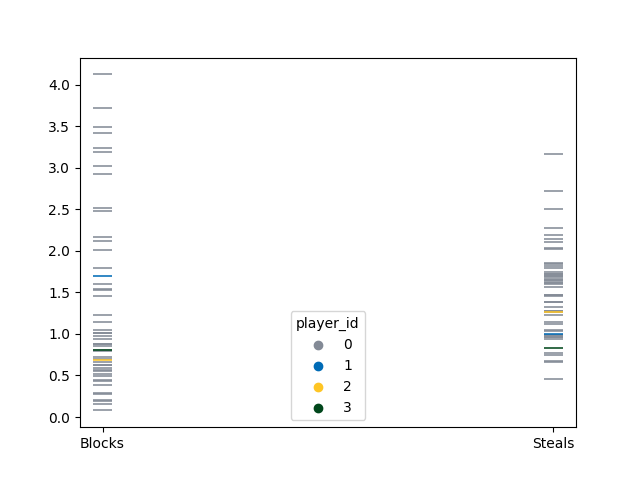
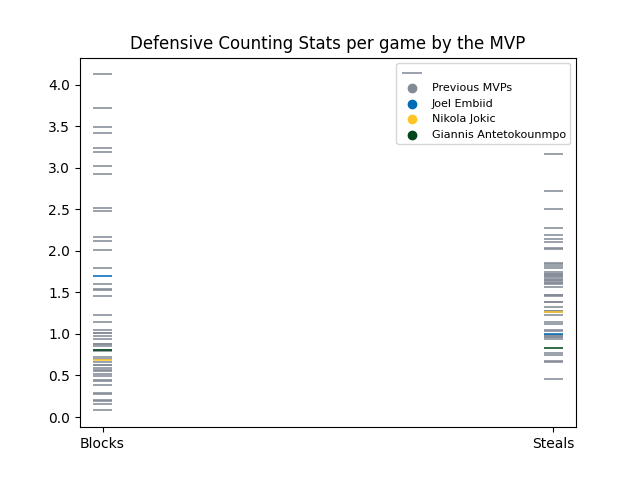
Done!

diff --git a/graph.py b/graph.py
@@ -1,3 +1,6 @@
+import warnings
+warnings.simplefilter(action='ignore', category=FutureWarning)
+
 import pandas as pd
 import seaborn as sns
 import matplotlib.pyplot as plt
@@ -61,11 +64,11 @@ def gen_by_year_dataset(data, tag):
     r_df = pd.DataFrame(dtm, columns=['idx', 'season', tag])
     return r_df
 
-tag_to_label = {"PTS": "Points", "REB" : "Rebounds", "AST" : "Assists", "STL" : "Steals", "BLK" : "Blocks", "FG_PCT": "Field Goal Percentage", "FG3_PCT" : "3 Point Percentage", "TS%" : "True Shooting Percentage", 'OWS' : 'OWS', 'TOV' : 'Turnovers', 'PF':'Personal Fouls', 'PER':'PER','OWS':'OWS',
+tag_to_label = {"PTS": "Points", "REB" : "Rebounds", "AST" : "Assists", "STL" : "Steals", "BLK" : "Blocks", "FG_PCT": "FG %", "FG3_PCT" : "3PT %", "FT_PCT":"FT %", "TS%" : "True Shooting %", 'OWS' : 'OWS', 'TOV' : 'Turnovers', 'PF':'Personal Fouls', 'PER':'PER','OWS':'OWS',
                 'DWS':'DWS','WS':'WS','OBPM':'OBPM','DBPM':'DBPM','BPM':'BPM','VORP':'VORP'}
 
 def beep(tag):
-    ret_map = {'REB':'TRB', 'FG_PCT':'FG%', 'FG3_PCT':'3P%'}
+    ret_map = {'REB':'TRB'}
     if(tag in ret_map.keys()):
         return ret_map[tag]
     return tag
@@ -109,6 +112,8 @@ def gen_scatter_plot_by_year(tag, per_game):
         sp.set_ylabel("{} per game".format(tag_to_label[tag]))
     else:
         sp.set_ylabel("{}".format(tag_to_label[tag]))
+    
+    plt.legend(fontsize="8", labels=['', 'Previous MVPs', 'Joel Embiid', "Nikola Jokic", "Giannis Antetokounmpo"])
     plt.savefig('data/graphs/by_year/{}.png'.format(tag))
     plt.clf()
 
@@ -136,10 +141,17 @@ def gen_scatter_plot_by_cat(cats, per_game, label):
     r_df = add_player_info_to_cat(r_df, giannis, cats, per_game)
 
     sp = sns.scatterplot(data=r_df, x='idx', y='data', hue='player_id', palette=palette, marker='_', s=200)
+
+    if(per_game):
+        sp.set_title("{} per game by the MVP".format(label))
+    else:
+        sp.set_title("{} by the MVP".format(label))
+
     sp.set_xticks(list(range(len(cats))))
     sp.set_xticklabels([tag_to_label[c] for c in cats])
     sp.set_xlabel("")
     sp.set_ylabel("")
+    plt.legend(fontsize="8", labels=['', 'Previous MVPs', 'Joel Embiid', "Nikola Jokic", "Giannis Antetokounmpo"])
     plt.savefig('data/graphs/by_cat/{}.png'.format(label))
     plt.clf()
 
@@ -150,9 +162,9 @@ def add_player_info_to_cat(data, player, rows, per_game):
     for row in rows:
         r = pd.DataFrame()
         if(per_game):
-            r['data'] = player[row]/player['G']
+            r['data'] = player[beep(row)]/player['G']
         else:
-            r['data'] = player[row]
+            r['data'] = player[beep(row)]
         r['idx'] = i
         r['player_id'] = max_player_id
         r_df = pd.concat([r_df, r], axis=0)
@@ -164,6 +176,7 @@ BASIC_OFFENSIVE_COUNTING_STATS = (['PTS', 'REB', 'AST'], 'Offensive Counting Sta
 BASIC_DEFENSIVE_COUNTING_STATS = (['BLK', 'STL'], 'Defensive Counting Stats')
 BASIC_BAD_STATS = (['TOV', 'PF'], 'Negative Counting Stats')
 ADVANCED_STATS = (['OWS','DWS','WS','OBPM','DBPM','BPM','VORP', 'PER'], 'Advanced Stats')
+EFFICENCY_METRICS = (['FG_PCT', 'FG3_PCT', 'FT_PCT', 'TS%'], 'Efficiency Metrics')
 
 for stat in BASIC_OFFENSIVE_COUNTING_STATS[0]:
     gen_scatter_plot_by_year(stat, True)
@@ -174,7 +187,11 @@ for stat in BASIC_DEFENSIVE_COUNTING_STATS[0]:
 for stat in BASIC_BAD_STATS[0]:
     gen_scatter_plot_by_year(stat, True)
 
+for stat in EFFICENCY_METRICS[0]:
+    gen_scatter_plot_by_year(stat, False)
 
+gen_scatter_plot_by_cat(BASIC_OFFENSIVE_COUNTING_STATS[0], True, BASIC_OFFENSIVE_COUNTING_STATS[1])
 gen_scatter_plot_by_cat(BASIC_DEFENSIVE_COUNTING_STATS[0], True, BASIC_DEFENSIVE_COUNTING_STATS[1])
 gen_scatter_plot_by_cat(BASIC_BAD_STATS[0], True, BASIC_BAD_STATS[1])
 gen_scatter_plot_by_cat(ADVANCED_STATS[0], False, ADVANCED_STATS[1])
+gen_scatter_plot_by_cat(EFFICENCY_METRICS[0], False, EFFICENCY_METRICS[1])
